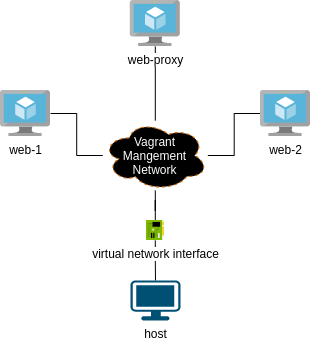
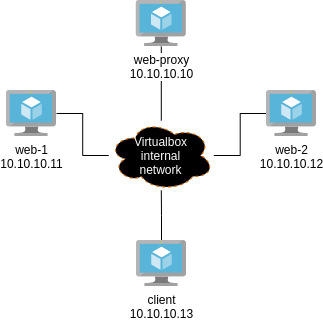
improved

diff --git a/material/web-1.html b/material/web-1.html
@@ -1,0 +1,2 @@
+<h1>Hello!</h1>
+<p>this is another page of web 1 !</p>

diff --git a/material/web-2.html b/material/web-2.html
@@ -1,0 +1,2 @@
+<h1>Hello!</h1>
+<p>this is another page of web 2 !</p>

diff --git a/material/web-1.index.html b/material/web-1.index.html
@@ -1,0 +1,2 @@
+<h1>Hiiii !</h1>
+<p>this is index page of web 1 !</p>

diff --git a/material/web-2.index.html b/material/web-2.index.html
@@ -1,0 +1,2 @@
+<h1>Hiiii !</h1>
+<p>this is index page of web 2 !</p>

diff --git a/README.md b/README.md
@@ -34,7 +34,7 @@ Since we're using a Ubuntu server 20.04 Vagrant Box, installing NGINX is as simp
 
 ```bash
 sudo apt update
-sudo apt install nginx
+sudo apt install -y nginx
 ```
 
 You can check the NGINX service by running:
@@ -43,40 +43,32 @@ You can check the NGINX service by running:
 sudo service nginx status
 ```
 
-You can instruct NGINX to automatically start after reboots by running:
-```bash
-sudo service nginx enable
-```
+If you're on the `web-1` VM, you can run `curl 10.10.10.11` to view the web page. The NGINX service is aleady running and serving a default web page.
 
-Run the following command to check the VM's networking configuration:
+Modify the content of `/var/www/html/index.html` from within the `web-1` VM to display other content, then try `curl` again. Also, create a file `/var/www/html/web-1.html` with unique content of your choice. Verify by using `curl 10.10.10.11/web-1.html`.
 
-```bash
-ip addr
-```
-
-You can use your web browser to visit the private IP address `http://web-1-private-ip` provided by the last bash command. The NGINX service is aleady running and serving a default web page.
-
-Modify the content of `/usr/share/nginx/html/index.html` from within the `web-1` VM to display other content, then refresh the web page. Also, create a file `/usr/share/nginx/html/web-1.html` with unique content of your choice. Verify by visiting `http://web-1-private-ip/web-1.html`.
-
-Perform this same setup on the `web-2` VM. Make sure to display different content on the web pages.
+Perform this same setup on the `web-2` VM, (its IP address is `10.10.10.12`). Make sure to display different content on the web pages.
 
 ### Installing NGINX and running a reverse proxy
 
-Next, ssh into the third VM `web-proxy` and install NGINX the same way. The service will automatically start serving the default web page as ususal. Run the `ip addr` command to figure out what private IP is this VM using. In your host machine, modify the `hosts` file (in ubuntu and most linux distribution, you can find it under `/etc/hosts`. For windows, look it up on the Internet :p) and add two lines at the end:
+Next, ssh into the third VM `web-proxy` and install NGINX the same way. The service will automatically start serving the default web page as ususal. The `web-proxy` VM should be using `10.10.10.10` IP address. Verify by running `curl 10.10.10.10` from within the `web-proxy` VM. Don't bother chaning the content of the HTML.
 
-```bash
-cat << EOF | tee -a /etc/hosts
-web-proxy-private-ip web-1.com
-web-proxy-private-ip web-2.com
-EOF
+Next, ssh into the `client` VM. Modify the `hosts` file `/etc/hosts` and add these two lines at the end:
+
+```
+10.10.10.10 web-1.com
+10.10.10.10 web-2.com
 ```
 
-This way, we're instructing your host machine to resolve `web-1.com` and `web-2.com` to the same private IP of the `web-proxy` VM, without having to rely on an external DNS. Visit both domain names with your browser to confirm the setup.
+This way, we're instructing the `client` VM to resolve `web-1.com` and `web-2.com` to the same private IP of the `web-proxy` VM, without having to rely on an external DNS. Run `curl web-1.com` and `curl web-2.com` to visit both domain names to confirm the setup. Both should display the default web page of the `web-proxy` VM. `curl web-1/com/web-1.html` should return `404 not found`.
 
 Next, from within the `web-proxy` VM, display the content of `/etc/nginx/nginx.conf` and figure out which configuration section instructs NGINX to serve that default web page. Study it carefully (for you own learning :D) then remove it, since we'll be configuring this NGINX service to work as a reverse-proxy.
 
-Finally, you have to configure NGINX to do the following:
-<li>When it receives http (80) requests from clients that used `web-1.com` domain name, it proxies their requests to `http://web-1-private-ip`</li>
-<li>When it receives http (80) requests from clients that used `web-2.com` domain name, it proxies their requests to `http://web-2-private-ip`</li>
+Finally, you have to configure NGINX service in the `web-proxy` VM to do the following:
+<li>Listen on port 80 for http traffic.</li>
+<li>When it receives http (80) requests from clients that used `web-1.com` domain name, it proxies their requests to `http://10.10.10.11`.</li>
+<li>When it receives http (80) requests from clients that used `web-2.com` domain name, it proxies their requests to `http://10.10.10.12`.</li>
+
+You can check your setup by running `curl web-1.com` (returns the `index.html` of `web-1` VM), `curl web-2.com`(returns the `index.html` of `web-2` VM), `curl web-1.com/web-1.html` (returns the `web-1.html` of `web-1` VM) and `curl web-1.com/web-2.html` (returns `404 not found`).
 
 Start experimenting on your own. When you finish, you can take a look at the scripts provided in the `material` folder to verify you configuration.
